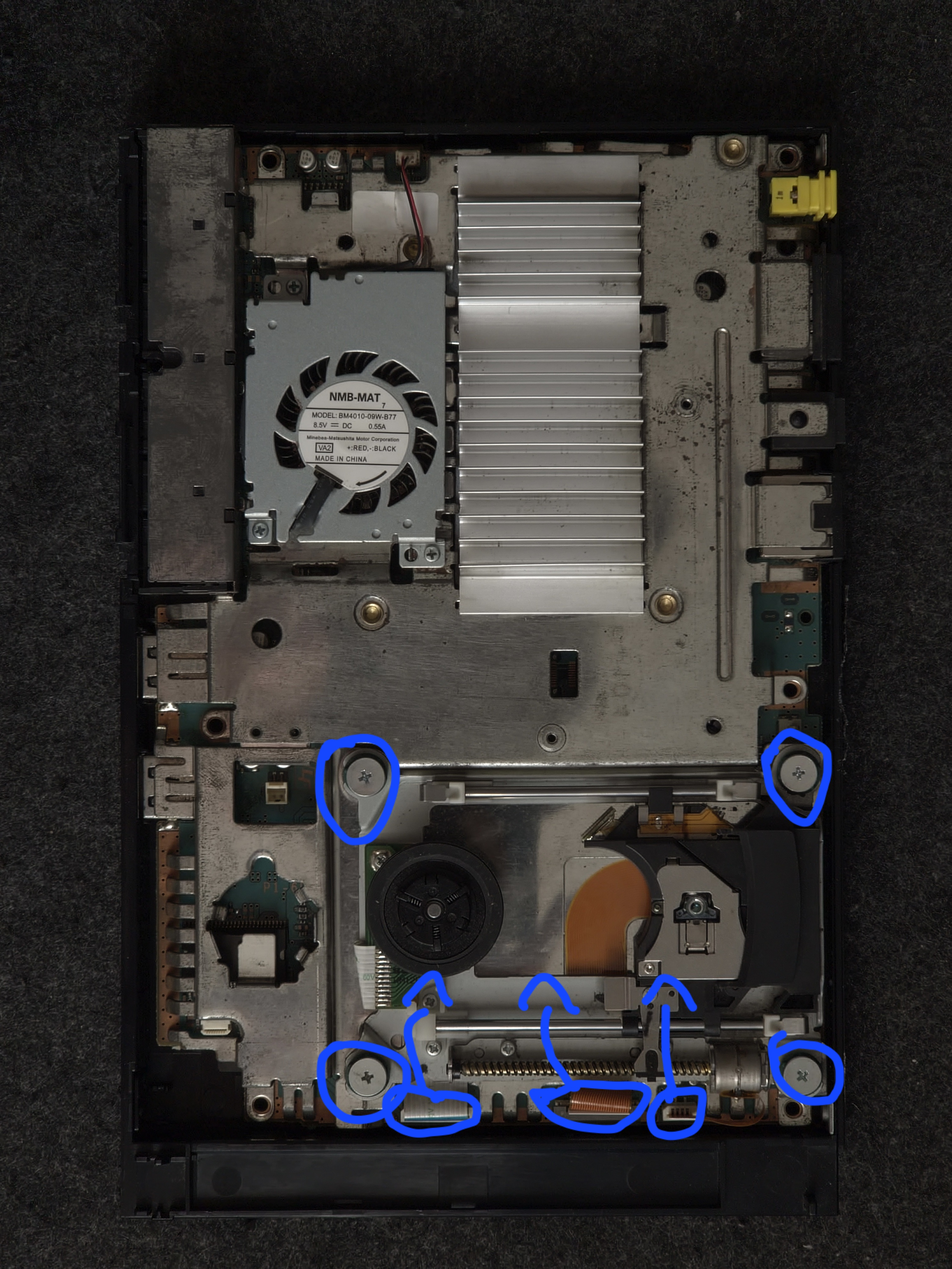
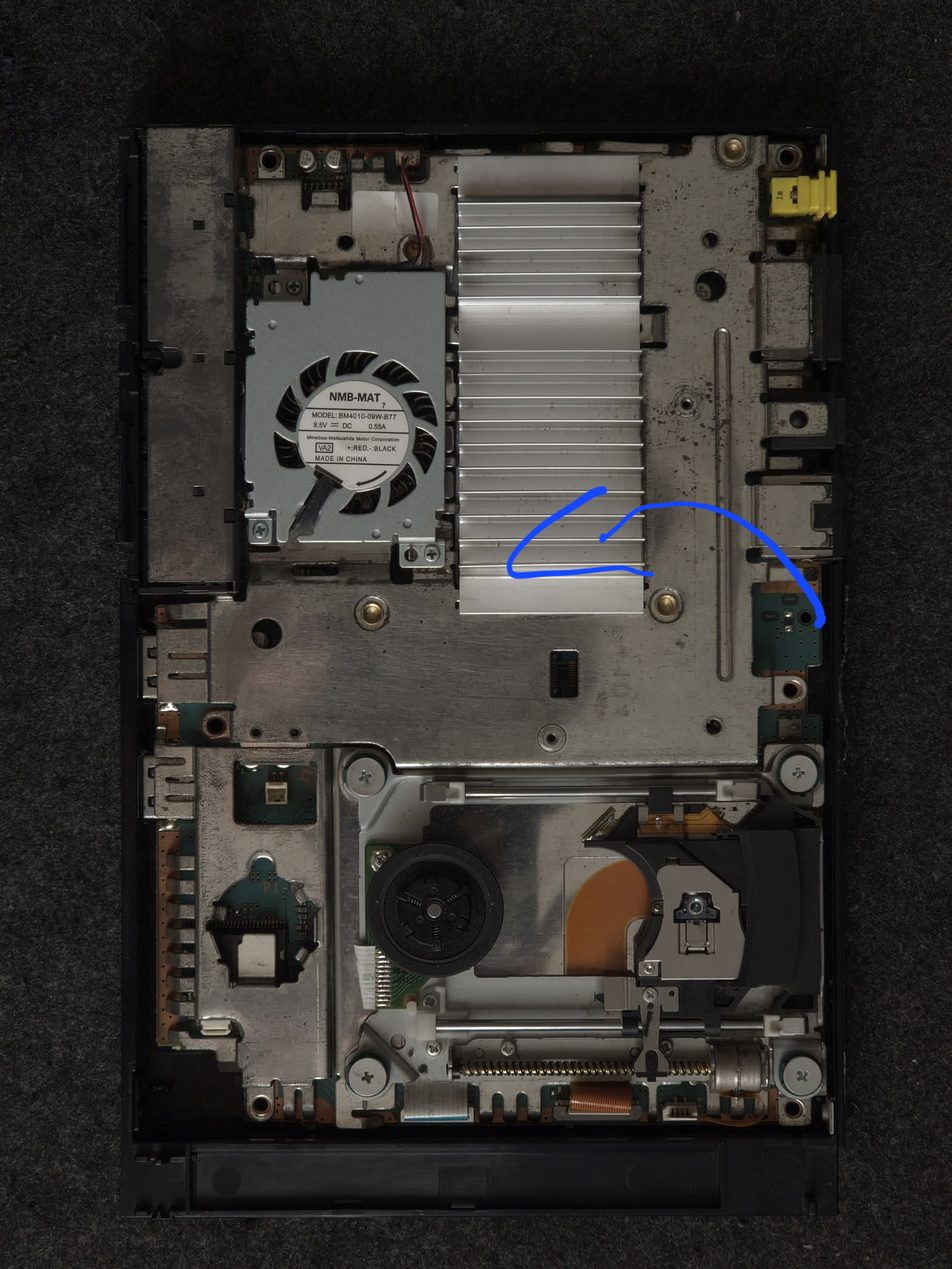
feat: a games catalogue, and a shelf per console in My Space
Seeded from Wikidata rather than from a ROM site. A ROM site's listing
is a by-product of distribution: no licence we could rely on, no stable
identifiers, and no metadata past a title and a file size. Wikidata is
CC0, so commercial use carries no conditions, and its Q-ids let one
cross-platform game be one row instead of four.

Three tables. `games` is keyed by Q-id, so re-running the seed updates
in place instead of growing a second copy. `game_platforms` is
many-to-many because a game that shipped on four consoles belongs to
all four, and it carries CNote's own console slug - the console
catalogue lives in code, not in Postgres. `user_games` scopes a shelf
to the console page it was added from, so the same cross-platform game
can sit on your PS2 shelf and your Xbox shelf separately, which is how
anyone who owns both thinks about it.

The API never returns a whole console: the Switch alone has 7,600
titles. It pages, caps the page size server-side, and answers "is there
another page" rather than paying for a COUNT nobody reads. With a
search term the ordering is by trigram similarity, so "mario" puts the
Mario games first rather than whatever is alphabetically earliest among
the hundreds that merely contain it.

Adding a game checks `game_platforms` first. Without that check a
client could file any game under any console and a PS5 title would
appear on a Game Boy page.

Mapping the 52 console slugs to Wikidata platforms is in the seed's
[…]

diff --git a/backend/routes/games.js b/backend/routes/games.js
@@ -1,0 +1,158 @@
+/* ─────────────────────────────────────────
+   FILE: games.js
+   DESCRIPTION: The per-console games catalogue (seeded from
+   Wikidata) and each user's own collection inside My Space.
+   ───────────────────────────────────────── */
+/* ── REQUIRED IMPORTS — DO NOT REMOVE ──────
+   If you add a new package:
+     1. require() it here
+     2. Add it to package.json dependencies
+   ────────────────────────────────────────── */
+const express = require('express');
+const pool = require('../db');
+const { authRequired, authOptional } = require('../middleware/auth');
+
+const router = express.Router();
+
+// The Switch alone has 7,600 games, so nothing here ever returns a whole
+// console's catalogue. The app pages; the page size is capped server-side so a
+// crafted ?limit= cannot ask for all of it at once.
+const PAGE = 40;
+const MAX_PAGE = 100;
+
+// GET /api/games/:consoleId?q=&page=&limit=
+//
+// The catalogue for one console. Public: browsing what exists on a PS2 needs no
+// account, and the collection endpoints below are where ownership comes in.
+router.get('/:consoleId', async (req, res) => {
+	const consoleId = String(req.params.consoleId || '').trim();
+	if (!consoleId) return res.status(400).json({ success: false, error: 'Console invalid.' });
+
+	const q = String(req.query.q || '').trim();
+	const page = Math.max(0, parseInt(req.query.page, 10) || 0);
+	const limit = Math.min(MAX_PAGE, Math.max(1, parseInt(req.query.limit, 10) || PAGE));
+
+	try {
+		// Two orderings, deliberately. With a search term, similarity ranks the
+		// hits so "mario" puts the Mario games first instead of whatever happens
+		// to be alphabetically earliest among the hundreds that merely contain
+		// it. Without one, release year then title is the order a shelf is in.
+		const params = [consoleId, limit, page * limit];
+		let where = 'gp.console_id = $1';
+		let order = 'g.release_year NULLS LAST, g.title';
+		if (q) {
+			params.push(q);
+			where += ` AND g.title ILIKE '%' || $4 || '%'`;
+			order = 'similarity(g.title, $4) DESC, g.title';
+		}
+		const rows = await pool.query(
+			`SELECT g.id, g.wikidata_id, g.title, g.release_year, g.developer, g.publisher
+			   FROM games g
+			   JOIN game_platforms gp ON gp.game_id = g.id
+			  WHERE ${where}
+			  ORDER BY ${order}
+			  LIMIT $2 OFFSET $3`,
+			params
+		);
+		res.json({
+			success: true,
+			games: rows.rows.map(r => ({
+				id: r.id,
+				wikidataId: r.wikidata_id,
+				title: r.title,
+				releaseYear: r.release_year,
+				developer: r.developer,
+				publisher: r.publisher,
+			})),
+			// Cheaper and honest: "there is another page" is all the client needs
+			// to keep scrolling, and a COUNT(*) over 7,600 rows per keystroke is
+			// not worth paying for a number nobody reads.
+			hasMore: rows.rowCount === limit,
+		});
+	} catch (err) {
+		console.error('GET /api/games/:consoleId error:', err);
+		res.status(500).json({ success: false, error: 'Failed to load games.' });
+	}
+});
+
+// GET /api/games/:consoleId/mine?userId= — a user's collection for this console.
+//
+// authOptional for the same reason the rest of My Space is: the website shows
+// someone's collection read-only on their profile, while the app asks about its
+// own and sends no userId. Requiring auth here would 400 the app; requiring none
+// would leave req.user unpopulated and do exactly the same.
+router.get('/:consoleId/mine', authOptional, async (req, res) => {
+	const consoleId = String(req.params.consoleId || '').trim();
+	const userId = parseInt(req.query.userId, 10) || (req.user && req.user.id);
+	if (!consoleId) return res.status(400).json({ success: false, error: 'Console invalid.' });
+	if (!userId) return res.status(400).json({ success: false, error: 'User necunoscut.' });
+
+	try {
+		const rows = await pool.query(
+			`SELECT g.id, g.wikidata_id, g.title, g.release_year, g.developer, g.publisher
+			   FROM user_games ug
+			   JOIN games g ON g.id = ug.game_id
+			  WHERE ug.user_id = $1 AND ug.console_id = $2
+			  ORDER BY ug.created_at`,
+			[userId, consoleId]
+		);
+		res.json({
+			success: true,
+			games: rows.rows.map(r => ({
+				id: r.id,
+				wikidataId: r.wikidata_id,
+				title: r.title,
+				releaseYear: r.release_year,
+				developer: r.developer,
+				publisher: r.publisher,
+			})),
+		});
+	} catch (err) {
+		console.error('GET /api/games/:consoleId/mine error:', err);
+		res.status(500).json({ success: false, error: 'Failed to load collection.' });
+	}
+});
+
+// PUT /api/games/:consoleId/mine — add or remove one game. App-only by design,
+// like the rest of My Space.
+//
+// One game per call as a toggle, not the whole list: two devices editing the
+// same shelf then cannot overwrite each other, which sending the full set would
+// guarantee.
+router.put('/:consoleId/mine', authRequired, async (req, res) => {
+	const consoleId = String(req.params.consoleId || '').trim();
+	const gameId = parseInt(req.body.gameId, 10);
+	const owned = req.body.owned !== false;
+	if (!consoleId) return res.status(400).json({ success: false, error: 'Console invalid.' });
+	if (!gameId) return res.status(400).json({ success: false, error: 'Joc invalid.' });
+
+	try {
+		if (owned) {
+			// Checked rather than trusted: without this, a client could file any
+			// game under any console and the shelf would show a PS5 title on a
+			// Game Boy page.
+			const ok = await pool.query(
+				'SELECT 1 FROM game_platforms WHERE game_id = $1 AND console_id = $2',
+				[gameId, consoleId]
+			);
+			if (!ok.rowCount) {
+				return res.status(400).json({ success: false, error: 'Jocul nu apare pe aceasta consola.' });
+			}
+			await pool.query(
+				'INSERT INTO user_games (user_id, game_id, console_id) VALUES ($1, $2, $3) ON CONFLICT DO NOTHING',
+				[req.user.id, gameId, consoleId]
+			);
+		} else {
+			await pool.query(
+				'DELETE FROM user_games WHERE user_id = $1 AND game_id = $2 AND console_id = $3',
+				[req.user.id, gameId, consoleId]
+			);
+		}
+		res.json({ success: true });
+	} catch (err) {
+		console.error('PUT /api/games/:consoleId/mine error:', err);
+		res.status(500).json({ success: false, error: 'Failed to update collection.' });
+	}
+});
+
+module.exports = router;

diff --git a/backend/scripts/seed-games.js b/backend/scripts/seed-games.js
@@ -1,0 +1,88 @@
+/* ─────────────────────────────────────────
+   FILE: seed-games.js
+   DESCRIPTION: Loads the Wikidata-derived games catalogue
+   (games.jsonl) into `games` + `game_platforms`.
+
+   Usage: node scripts/seed-games.js path/to/games.jsonl
+   ───────────────────────────────────────── */
+require('dotenv').config();
+const fs = require('fs');
+const readline = require('readline');
+const { Pool } = require('pg');
+
+const pool = new Pool({ connectionString: process.env.DATABASE_URL, ssl: { rejectUnauthorized: false } });
+
+// Wikidata's Q-id is the natural key, so a re-run updates titles and dates in
+// place rather than growing a second copy of the catalogue. Nothing here is
+// user data: a later run is always allowed to overwrite an earlier one.
+const UPSERT_GAME = `
+	INSERT INTO games (wikidata_id, title, release_year, developer, publisher)
+	SELECT * FROM UNNEST($1::text[], $2::text[], $3::int[], $4::text[], $5::text[])
+	ON CONFLICT (wikidata_id) DO UPDATE SET
+		title        = EXCLUDED.title,
+		release_year = EXCLUDED.release_year,
+		developer    = EXCLUDED.developer,
+		publisher    = EXCLUDED.publisher
+	RETURNING id, wikidata_id`;
+
+const LINK = `
+	INSERT INTO game_platforms (game_id, console_id)
+	SELECT * FROM UNNEST($1::int[], $2::text[])
+	ON CONFLICT DO NOTHING`;
+
+// Big enough that 40k games is a few hundred round trips, small enough to stay
+// well under Postgres' 65535 bound parameters per statement (5 arrays here).
+const BATCH = 500;
+
+async function flush(rows) {
+	if (!rows.length) return 0;
+	const ids = await pool.query(UPSERT_GAME, [
+		rows.map(r => r.wikidata_id),
+		rows.map(r => r.title),
+		rows.map(r => r.release_year ?? null),
+		rows.map(r => r.developer ?? null),
+		rows.map(r => r.publisher ?? null),
+	]);
+
+	// RETURNING comes back in whatever order the upsert chose, so the links are
+	// keyed off wikidata_id rather than off the row's position in the batch.
+	const byQid = new Map(ids.rows.map(r => [r.wikidata_id, r.id]));
+	const gameIds = [];
+	const consoleIds = [];
+	for (const r of rows) {
+		const id = byQid.get(r.wikidata_id);
+		if (!id) continue;
+		for (const c of r.consoles) { gameIds.push(id); consoleIds.push(c); }
+	}
+	if (gameIds.length) await pool.query(LINK, [gameIds, consoleIds]);
+	return rows.length;
+}
+
+(async () => {
+	const file = process.argv[2];
+	if (!file || !fs.existsSync(file)) {
+		console.error('Usage: node scripts/seed-games.js path/to/games.jsonl');
+		process.exit(1);
+	}
+
+	let batch = [];
+	let done = 0;
+	const rl = readline.createInterface({ input: fs.createReadStream(file), crlfDelay: Infinity });
+	for await (const line of rl) {
+		if (!line.trim()) continue;
+		batch.push(JSON.parse(line));
+		if (batch.length >= BATCH) {
+			done += await flush(batch);
+			batch = [];
+			process.stdout.write(`\r${done} games`);
+		}
+	}
+	done += await flush(batch);
+
+	const [games, links] = await Promise.all([
+		pool.query('SELECT COUNT(*)::int AS n FROM games'),
+		pool.query('SELECT COUNT(*)::int AS n FROM game_platforms'),
+	]);
+	console.log(`\nloaded ${done} rows -> ${games.rows[0].n} games, ${links.rows[0].n} platform links`);
+	await pool.end();
+})().catch(err => { console.error(err); process.exit(1); });

diff --git a/backend/server.js b/backend/server.js
@@ -72,6 +72,7 @@ const uploadsRoutes = require('./routes/uploads');
 const workshopRoutes = require('./routes/workshop');
 const consoleTutorialsRoutes = require('./routes/console-tutorials');
 const consoleModelsRoutes = require('./routes/console-models');
+const gamesRoutes = require('./routes/games');
 const articlesRoutes = require('./routes/articles');
 const ordersRoutes = require('./routes/orders');
 
@@ -489,6 +490,7 @@ app.use('/api/uploads', uploadsRoutes);
 app.use('/api/workshop', workshopRoutes);
 app.use('/api/console-tutorials', consoleTutorialsRoutes);
 app.use('/api/console-models', consoleModelsRoutes);
+app.use('/api/games', gamesRoutes);
 app.use('/api/articles', articlesRoutes);
 app.use('/api/orders', ordersRoutes);
 
